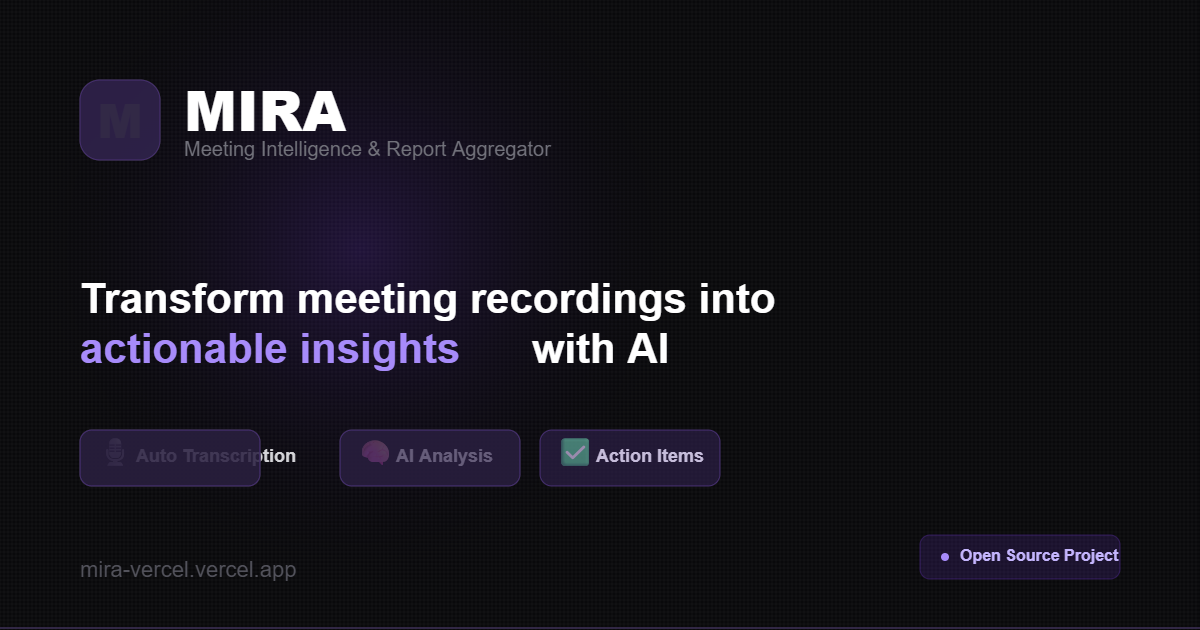
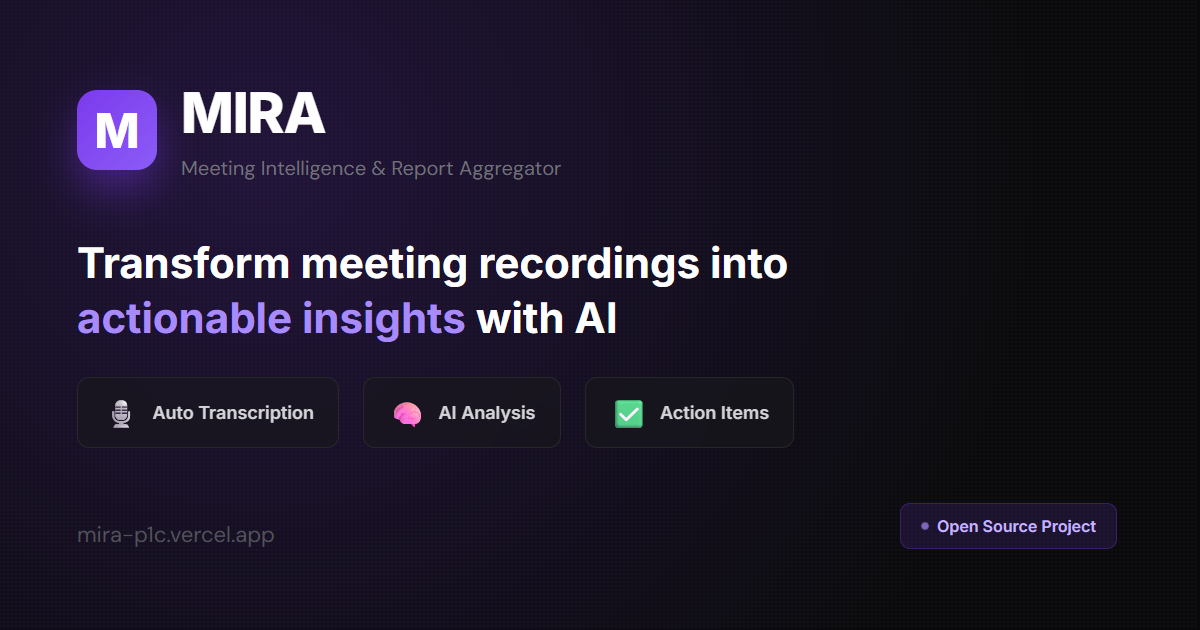
Added Open Graph Image v2

diff --git a/src/app/layout.tsx b/src/app/layout.tsx
@@ -25,14 +25,14 @@ export const metadata: Metadata = {
   openGraph: {
     title: "MIRA — Meeting Intelligence & Report Aggregator",
     description: "Upload a meeting recording and get instant transcription, key decisions, action items, and sentiment analysis powered by Whisper and Claude AI.",
-    images: [{ url: '/og-image.png', width: 1200, height: 630 }],
+    images: [{ url: '/mira-og-image.png', width: 1200, height: 630 }],
     type: 'website',
   },
   twitter: {
     card: 'summary_large_image',
     title: "MIRA — Meeting Intelligence & Report Aggregator",
     description: "Upload a meeting recording and get instant transcription, key decisions, action items, and sentiment analysis powered by Whisper and Claude AI.",
-    images: ['/og-image.png'],
+    images: ['/mira-og-image.png'],
   },
 };
 